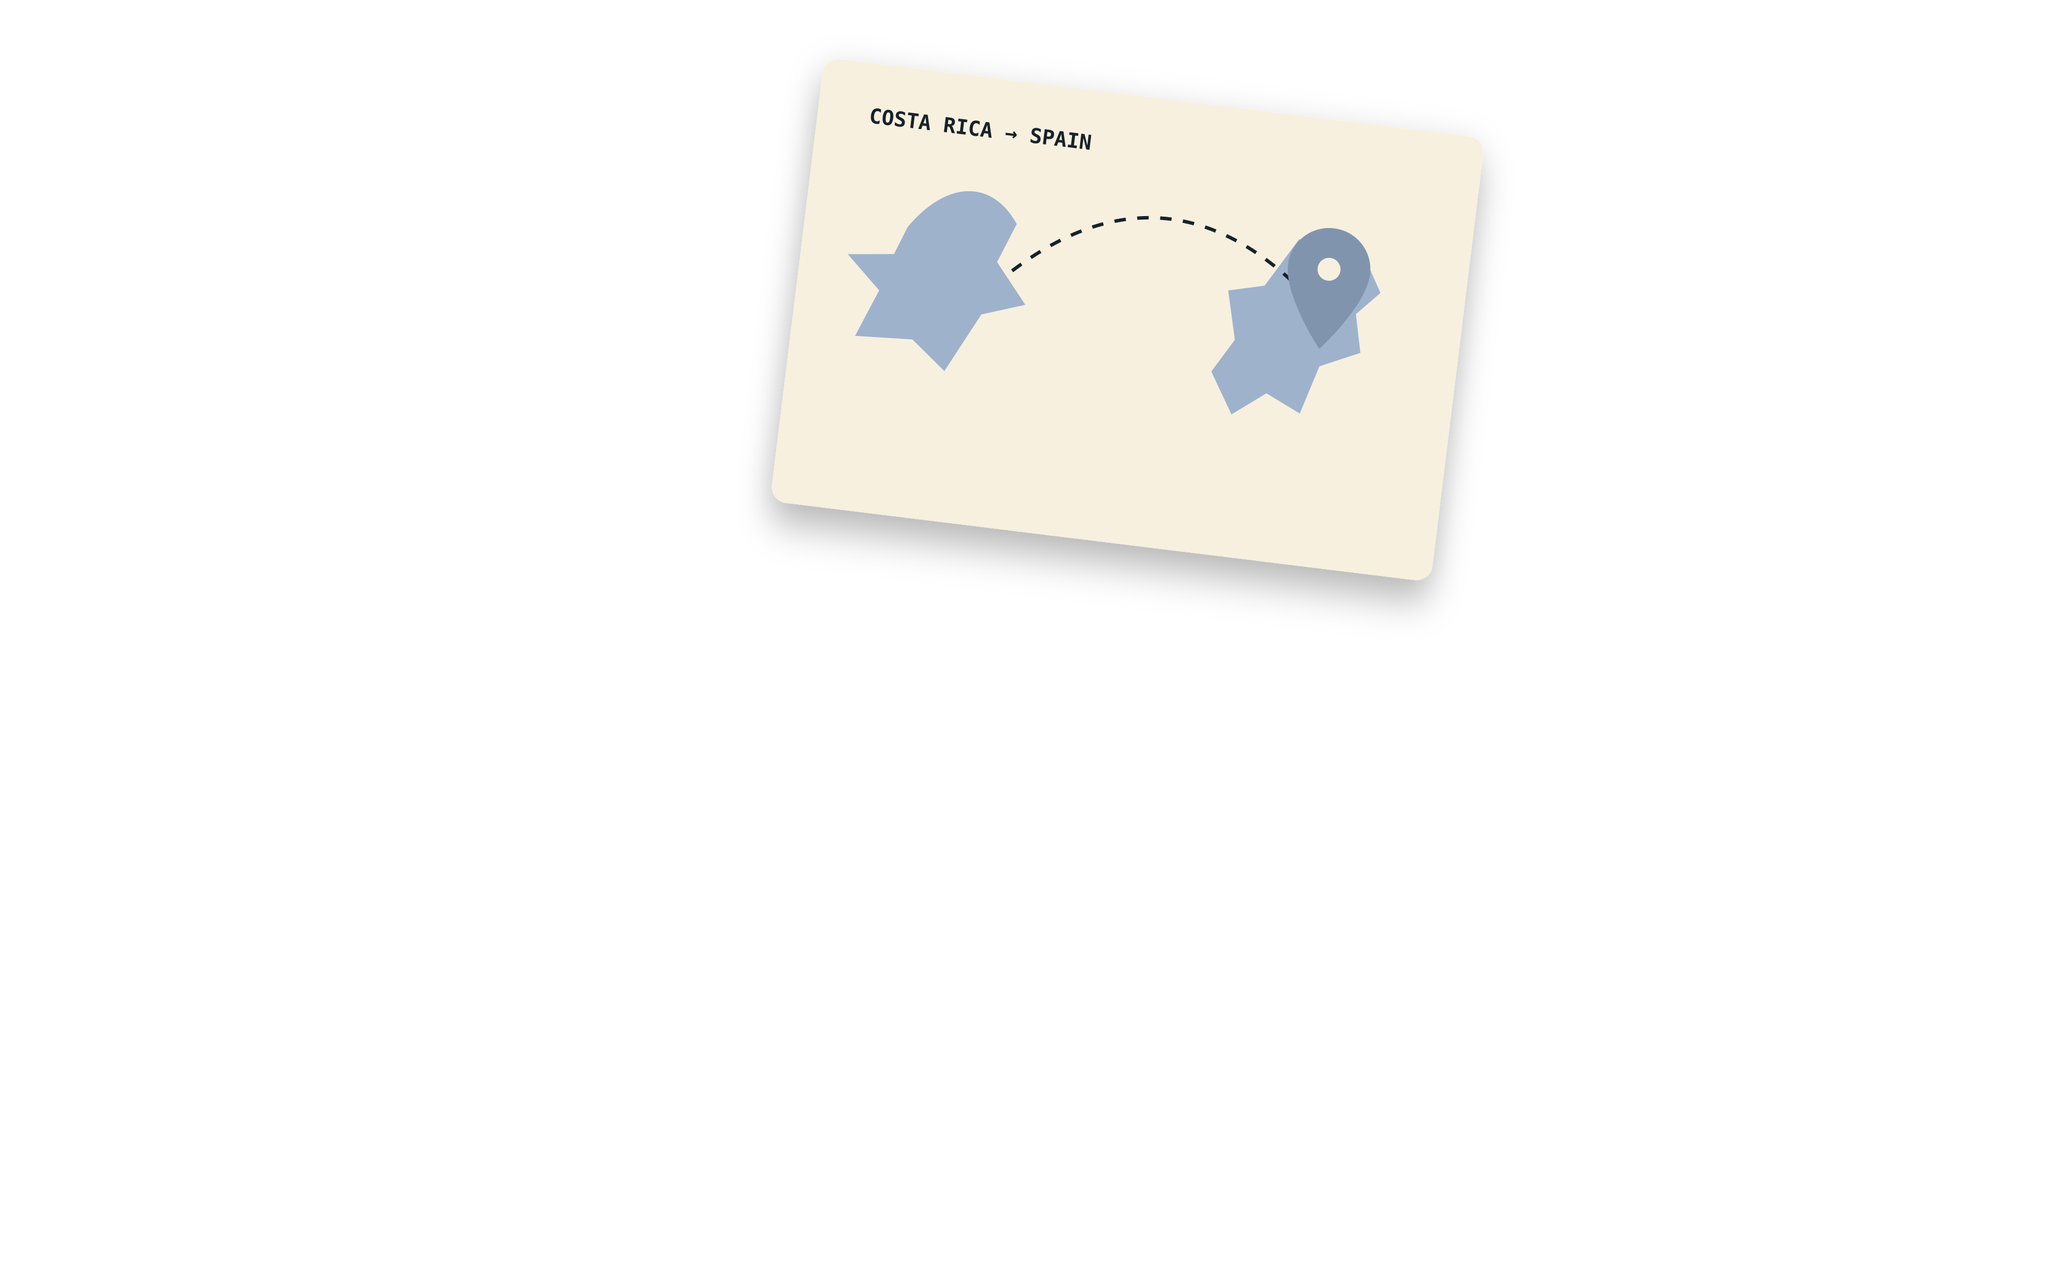
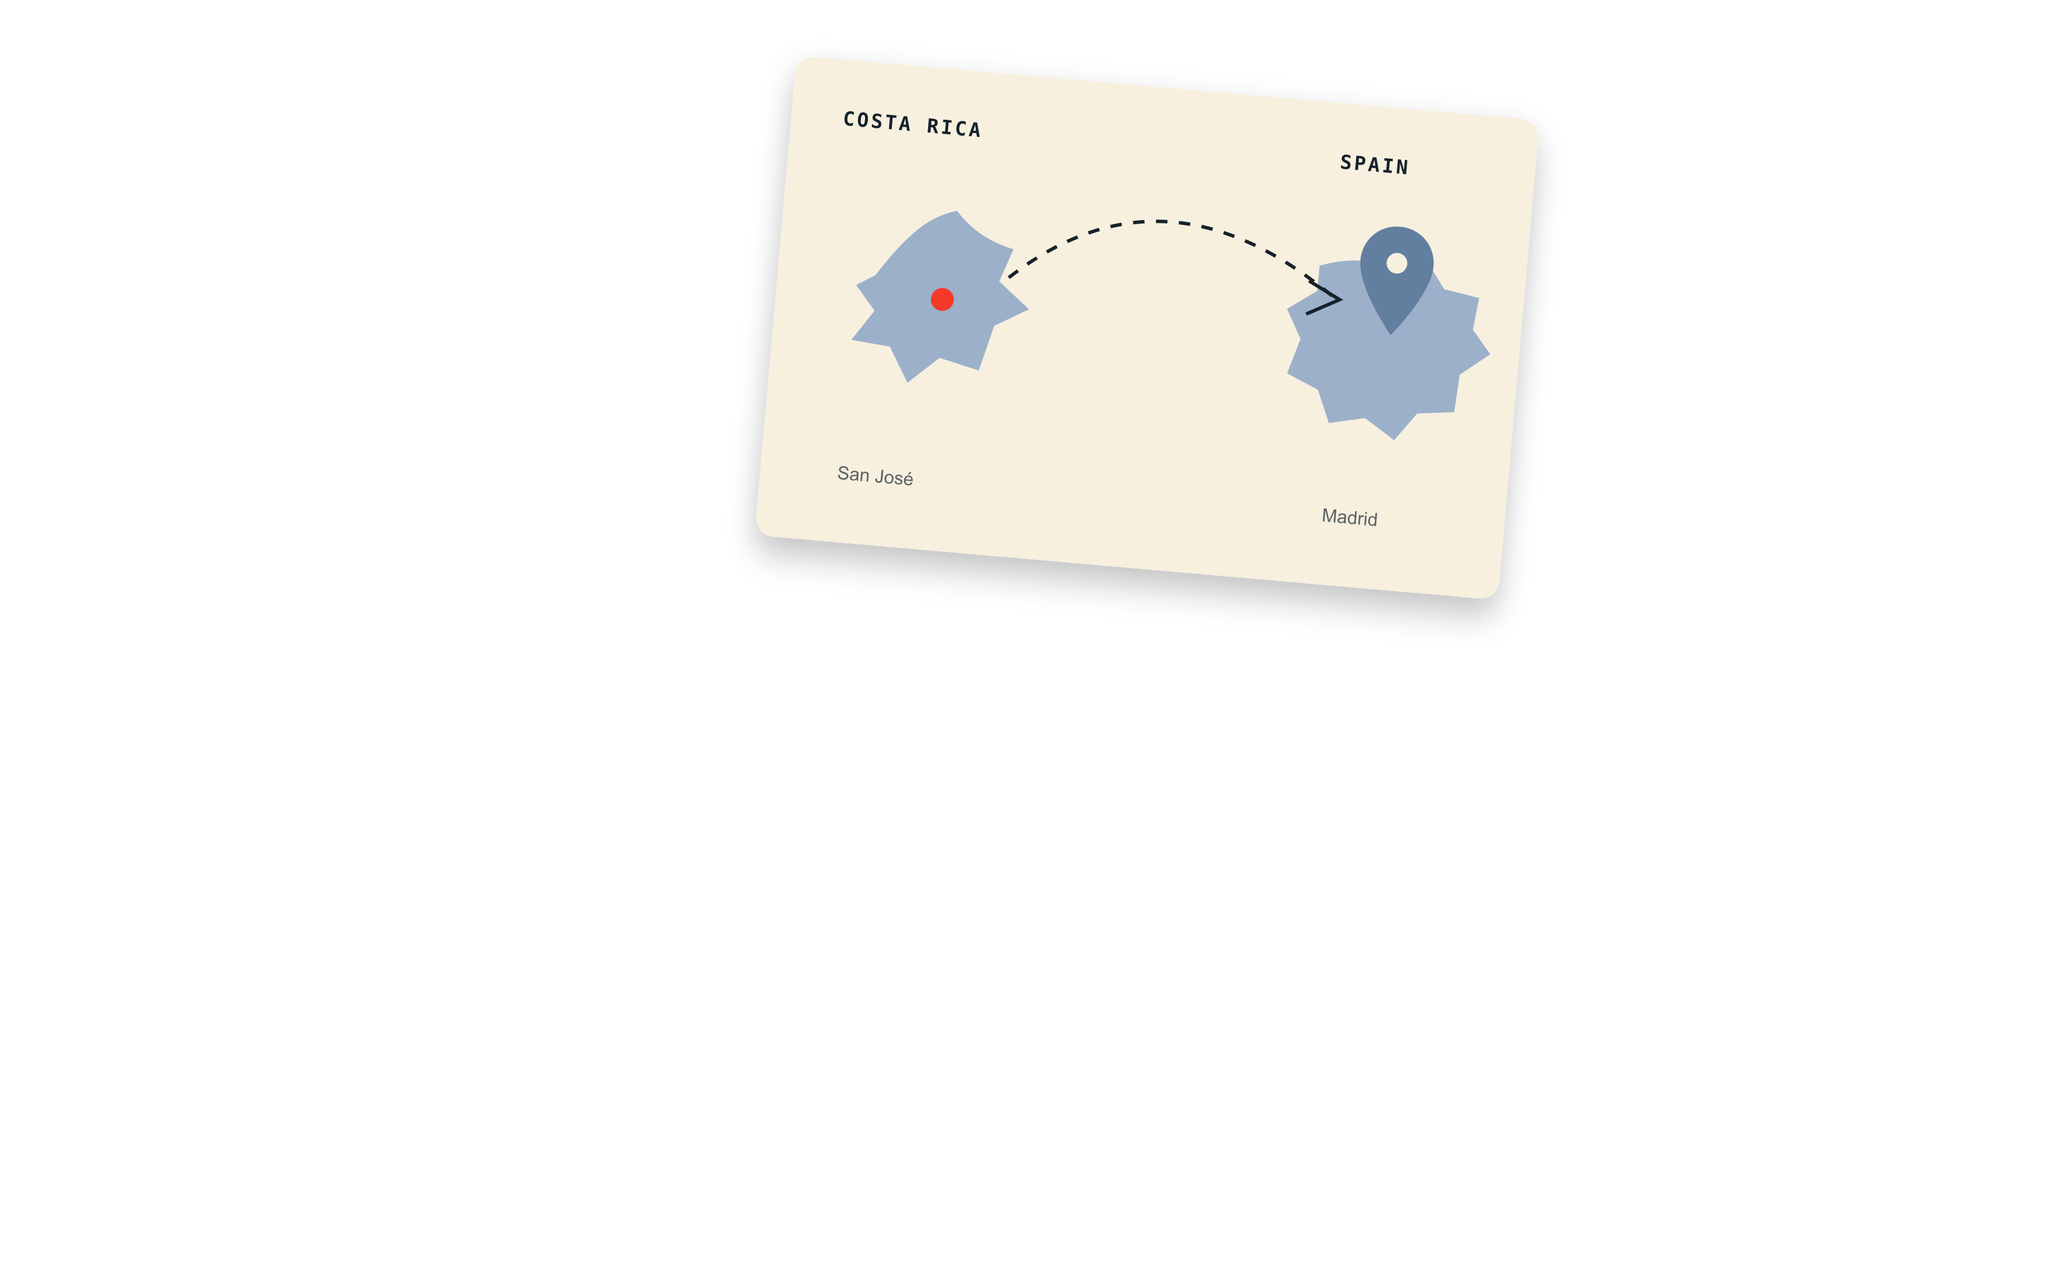
b

diff --git a/app/about/page.tsx b/app/about/page.tsx
@@ -1,6 +1,7 @@
 import type { Metadata } from "next";
 import SiteFooter from "../../components/SiteFooter";
 import SiteNav from "../../components/SiteNav";
+import Image from "next/image";
 
 export const metadata: Metadata = {
   title: "About — Josue Somarribas",
@@ -8,6 +9,8 @@ export const metadata: Metadata = {
 };
 
 const Arrow = () => <span aria-hidden="true">↗</span>;
+const aboutHeroLayers = ["01-cuaderno-field-kit", "02-mapa-costa-rica-spain", "03-ventana-experimento", "04-tarjeta-ab", "05-reloj-madrid", "06-nota-investigacion", "07-sello-curious"];
+const beliefImages:Record<string,string> = { ship:"02-idea-ship-learn", results:"03-resultados-planos", details:"04-detalle-ui-confianza" };
 
 export default function AboutPage() {
   const beliefs = [
@@ -36,31 +39,26 @@ export default function AboutPage() {
           <div className="actions"><a className="btn btn-red" href="#route">Download résumé ↓</a><a className="btn btn-outline" href="mailto:hello@josuesomarribas.com">Start a conversation <Arrow /></a></div>
           <p className="about-meta">8+ years across UX and web development　·　Based in Spain　·　Born in Costa Rica</p>
         </div>
-        <div className="about-collage" aria-label="Illustration of research, experimentation and a journey from Costa Rica to Spain">
-          <i className="about-sun" /><div className="about-waves"><i/><i/><i/></div>
-          <div className="field-kit"><b>FIELD KIT</b><span>Questions,<br/>observations &<br/>small bets.</span><i/></div>
-          <div className="map-card"><b>COSTA RICA　→　SPAIN</b><div>◆ · · · · · · ↗ ◆</div><small>curious<br/>by default</small></div>
-          <div className="code-note"><span>● ● ●</span><code>experiment {'{'}<br/>　hypothesis: &apos;Make it clearer&apos;,<br/>　variant: &apos;B&apos;,<br/>　track(&apos;cta_click&apos;);<br/>{'}'}</code></div>
-          <div className="ab-note"><b>A/B TEST</b><span>A</span><strong>B</strong></div>
-          <div className="research-note"><b>RESEARCH NOTE</b><p>Why do people hesitate<br/>right before they act?</p></div>
+        <div className="about-collage" role="img" aria-label="Research, experimentation and a journey from Costa Rica to Spain">
+          <Image className="about-decor about-asset-sun" src="/assets/global/sol-rojo-texturizado.svg" alt="" aria-hidden="true" width={1024} height={1024}/>
+          <Image className="about-decor about-asset-waves" src="/assets/global/ondas-marfil-3-lineas.svg" alt="" aria-hidden="true" width={1400} height={360}/>
+          {aboutHeroLayers.map((file,index)=><Image key={file} className={`about-hero-layer about-layer-${index+1}`} src={`/assets/about-hero/${file}.svg`} alt="" aria-hidden="true" width={1800} height={1100} priority={index<3}/>) }
         </div>
       </div>
     </section>
 
     <section className="about-overlap shell">
       <div><h2>I work in the overlap.</h2><p>The most interesting product problems rarely belong to one discipline. I like following them across boundaries—from the first awkward question to the production details that decide whether an idea survives.</p></div>
-      <div className="venn" aria-label="People, interfaces and systems overlap to create useful things that ship">
-        <i className="venn-interface">Interfaces</i><i className="venn-people">People</i><i className="venn-systems">Systems</i><b>Useful<br/>things that<br/>actually ship.</b>
-      </div>
+      <Image className="about-venn-asset" src="/assets/about-secundarios/01-diagrama-venn.svg" alt="People, interfaces and systems overlap to create useful things that ship" width={1200} height={820}/>
     </section>
 
-    <section className="beliefs shell"><h2>A few things I believe</h2><div className="belief-grid">{beliefs.map(([n,t,d,c])=><article className={c === "ship" ? "featured" : ""} key={n}><b>{n}</b><h3>{t}</h3><p>{d}</p><div className={`belief-art ${c}`} aria-hidden="true" /></article>)}</div></section>
+    <section className="beliefs shell"><h2>A few things I believe</h2><div className="belief-grid">{beliefs.map(([n,t,d,c])=><article className={c === "ship" ? "featured" : ""} key={n}><b>{n}</b><h3>{t}</h3><p>{d}</p>{beliefImages[c] ? <Image className="belief-asset" src={`/assets/about-secundarios/${beliefImages[c]}.svg`} alt="" aria-hidden="true" width={1100} height={700}/> : <Image className="belief-arrow" src="/assets/global/flecha-manuscrita-roja.svg" alt="" aria-hidden="true" width={800} height={500}/>}</article>)}</div></section>
 
-    <section className="route shell" id="route"><div className="route-head"><h2>The route so far</h2><a className="btn btn-dark" href="mailto:hello@josuesomarribas.com?subject=Résumé">View résumé <Arrow /></a></div><div className="route-line">{route.map(([icon,title,text])=><article key={title}><i>{icon}</i><span/><h3>{title}</h3><p>{text}</p></article>)}</div><p className="industries">Enterprise software　·　Education　·　E-commerce　·　Finance　·　Health　·　Travel</p></section>
+    <section className="route shell" id="route"><div className="route-head"><h2>The route so far</h2><a className="btn btn-dark" href="mailto:hello@josuesomarribas.com?subject=Résumé">View résumé <Arrow /></a></div><Image className="route-icons-asset" src="/assets/about-secundarios/05-iconos-ruta-profesional.svg" alt="" aria-hidden="true" width={1800} height={360}/><div className="route-line">{route.map(([,title,text])=><article key={title}><span/><h3>{title}</h3><p>{text}</p></article>)}</div><p className="industries">Enterprise software　·　Education　·　E-commerce　·　Finance　·　Health　·　Travel</p></section>
 
-    <section className="team"><div className="shell"><h2>What I bring to a team</h2><div className="team-grid"><article><i>⌕</i><div><h3>See the problem</h3><p>Research, synthesis, journey friction, hypothesis framing.</p></div></article><article><i>✎</i><div><h3>Shape the experience</h3><p>Flows, interaction design, prototypes, design systems.</p></div></article><article><i>‹/›</i><div><h3>Make it real</h3><p>Front-end, responsive behavior, accessibility, analytics and experiment QA.</p></div></article></div><p className="team-flow">OBSERVE　 ⟶　 FRAME　 ⟶　 PROTOTYPE　 ⟶　 INSTRUMENT　 ⟶　 SHIP　 ⟶　 LEARN</p></div></section>
+    <section className="team"><div className="shell"><h2>What I bring to a team</h2><Image className="team-icons-asset" src="/assets/about-secundarios/06-iconos-aporte-equipo.svg" alt="" aria-hidden="true" width={1350} height={460}/><div className="team-grid"><article><div><h3>See the problem</h3><p>Research, synthesis, journey friction, hypothesis framing.</p></div></article><article><div><h3>Shape the experience</h3><p>Flows, interaction design, prototypes, design systems.</p></div></article><article><div><h3>Make it real</h3><p>Front-end, responsive behavior, accessibility, analytics and experiment QA.</p></div></article></div><p className="team-flow">OBSERVE　 ⟶　 FRAME　 ⟶　 PROTOTYPE　 ⟶　 INSTRUMENT　 ⟶　 SHIP　 ⟶　 LEARN</p></div></section>
 
-    <section className="hospitality"><div className="shell hospitality-grid"><div><h2>UX does not stop at the screen.</h2><p>Alongside digital products, I host travellers from around the world in Costa Rica. More than 70 guest reviews have taught me the same lesson as product work: comfort lives in anticipation, clear communication and the small details people should never have to ask for.</p><a href="https://www.airbnb.com/" target="_blank" rel="noreferrer">Read the guest reviews <Arrow /></a></div><div className="welcome-card">Welcome!<br/><span>Que disfrutes tu estancia.</span> ♡</div><div className="speech">Thanks for the tips,<br/>it made our day.<br/><br/><b>Everything was<br/>thought through.</b></div></div></section>
+    <section className="hospitality"><div className="shell hospitality-grid"><div><h2>UX does not stop at the screen.</h2><p>Alongside digital products, I host travellers from around the world in Costa Rica. More than 70 guest reviews have taught me the same lesson as product work: comfort lives in anticipation, clear communication and the small details people should never have to ask for.</p><a href="https://www.airbnb.com/" target="_blank" rel="noreferrer">Read the guest reviews <Arrow /></a></div><Image className="hospitality-asset" src="/assets/about-secundarios/07-kit-hospitalidad.svg" alt="Hospitality kit with keys, map and welcome card" width={1800} height={900}/></div></section>
 
     <section className="recommendations shell"><h2>People I&apos;ve worked with say it better.</h2><div><blockquote>“Josue bridges design decisions and production constraints exceptionally well.”<cite>Product collaborator</cite></blockquote><blockquote>“He asks great questions, notices the details and makes collaboration feel easy.”<cite>Engineering collaborator</cite></blockquote><a href="#">Read 14 recommendations<br/>on LinkedIn <Arrow /></a></div></section>
 

diff --git a/app/globals.css b/app/globals.css
@@ -69,3 +69,9 @@ body{background-color:var(--paper);background-image:url('/assets/global/textura-
 .notebook-art{isolation:isolate}.writing-art-layer{position:absolute;z-index:2;top:-3%;left:-11%;width:122%;height:auto;pointer-events:none}.writing-decor{position:absolute;pointer-events:none}.writing-sun-asset{z-index:0;width:190px;height:190px;right:45px;top:0;animation:asset-pulse 6s ease-in-out infinite}.writing-waves-asset{z-index:1;width:260px;height:auto;right:-50px;top:82px;animation:asset-drift 7s ease-in-out infinite}.writing-art-4{animation:asset-float 6s ease-in-out infinite}.writing-art-5{animation:asset-float 4.8s -.7s ease-in-out infinite reverse}
 @media(max-width:600px){.writing-art-layer{left:-20%;width:140%}.writing-sun-asset{right:20px}}
 @media(prefers-reduced-motion:reduce){.writing-art-layer,.writing-decor{animation:none!important}}
+
+/* Final About artwork */
+.about-collage{isolation:isolate}.about-hero-layer{position:absolute;z-index:2;top:-5%;left:-11%;width:122%;height:auto;pointer-events:none}.about-decor{position:absolute;pointer-events:none}.about-asset-sun{z-index:0;width:180px;height:180px;right:45px;top:10px;animation:asset-pulse 6s ease-in-out infinite}.about-asset-waves{z-index:1;width:230px;height:auto;right:-60px;top:92px;animation:asset-drift 7s ease-in-out infinite}.about-layer-3,.about-layer-5{animation:asset-float 6.5s ease-in-out infinite}.about-layer-4,.about-layer-6{animation:asset-float 5.4s -1.3s ease-in-out infinite reverse}.about-layer-7{animation:asset-pulse 7s ease-in-out infinite}.about-venn-asset{display:block;width:min(620px,100%);height:auto;margin-left:auto}.belief-asset,.belief-arrow{position:absolute;left:14px;right:14px;bottom:8px;width:calc(100% - 28px);height:125px;object-fit:contain}.belief-arrow{height:105px;object-fit:cover;object-position:70% 54%}.route-icons-asset{display:block;width:100%;height:auto;margin:2px 0 -72px}.team .shell{position:relative}.team-icons-asset{display:block;width:100%;height:auto;margin:-25px 0 -90px;opacity:.95}.team-grid article{padding-top:48px}.hospitality-grid{grid-template-columns:.8fr 1.2fr}.hospitality-asset{display:block;width:100%;height:auto;max-height:230px;object-fit:contain}.fouc-asset-story{display:grid;grid-template-columns:1.4fr .8fr;gap:14px;margin:24px 0}.fouc-asset-story img{display:block;width:100%;height:180px;object-fit:contain;border:1px solid #d2cdc2;border-radius:7px;background:#f8f2e5}.fouc-asset-story img:first-child,.fouc-asset-story img:nth-child(2),.fouc-asset-story img:nth-child(4),.fouc-asset-story img:nth-child(5){grid-column:1/-1;height:auto}.fouc-takeaway{position:relative;background-image:url('/assets/article-fouc/08-subrayado-takeaway.svg'),linear-gradient(110deg,#fbecd0,#fff8e9);background-repeat:no-repeat;background-position:12px 60%,center;background-size:70% auto,auto}.writing-quote{position:relative;overflow:hidden}.writing-quote:after{content:"";position:absolute;right:2%;bottom:-12%;width:280px;height:110px;background:url('/assets/writing-editorial/07-firma-garabato-blanca.svg') center/contain no-repeat;opacity:.75;pointer-events:none}
+@media(max-width:900px){.about-venn-asset{margin:0 auto}.route-icons-asset{margin-bottom:-40px}.team-icons-asset{margin-bottom:-55px}.hospitality-grid{grid-template-columns:1fr 1fr}.fouc-asset-story{grid-template-columns:1fr 1fr}}
+@media(max-width:600px){.about-hero-layer{left:-24%;width:148%;top:0}.about-asset-sun{right:5px}.about-venn-asset{width:100%}.route-icons-asset{margin-bottom:-15px}.team-icons-asset{margin:0 0 -20px}.team-grid article{padding-top:0}.hospitality-grid{grid-template-columns:1fr}.fouc-asset-story{grid-template-columns:1fr}.fouc-asset-story img{grid-column:1!important;height:auto}.writing-quote:after{opacity:.35}}
+@media(prefers-reduced-motion:reduce){.about-hero-layer,.about-decor{animation:none!important}}

diff --git a/app/writing/ArticlePage.tsx b/app/writing/ArticlePage.tsx
@@ -3,6 +3,7 @@ import type { Article } from "../../lib/content";
 import SiteFooter from "../../components/SiteFooter";
 import SiteNav from "../../components/SiteNav";
 import ArticleTools from "./ArticleTools";
+import { editorialImage } from "../../lib/editorial-assets";
 
 function plainText(value:string) { return value.replace(/<[^>]+>/g, "").replace(/&[^;]+;/g, " ").trim(); }
 function headingId(value:string) { return plainText(value).normalize("NFKD").replace(/[\u0300-\u036f]/g, "").toLowerCase().replace(/[^a-z0-9]+/g, "-").replace(/^-|-$/g, ""); }
@@ -22,6 +23,8 @@ export default function ArticlePage({ article, locale }:{ article:Article; local
   const indexHref = locale === "es" ? "/es/writing" : "/writing";
   const { html, headings } = prepareBody(article.body);
   const minutes = Math.max(1, Math.ceil(plainText(article.body).split(/\s+/).length / 220));
+  const isFouc = /fouc/i.test(article.slug);
+  const heroImage = isFouc ? "/assets/article-fouc/01-hero-diagrama.svg" : editorialImage(article.slug, article.image);
   const labels = locale === "es"
     ? { writing:"Artículos", back:"Volver a artículos", note:"Este artículo todavía está disponible únicamente en inglés.", talk:"Hablemos", compare:"¿Comparamos notas?", conversation:"Iniciar conversación", contents:"EN ESTE ARTÍCULO", share:"COMPARTIR" }
     : { writing:"Writing", back:"Back to Writing", note:"", talk:"Let’s talk", compare:"Want to compare notes?", conversation:"Start a conversation", contents:"IN THIS NOTE", share:"SHARE" };
@@ -44,10 +47,16 @@ export default function ArticlePage({ article, locale }:{ article:Article; local
           <p className="article-description">{article.description}</p>
           <div className="article-meta"><span>By Josue Somarribas</span><span>•</span><span>{minutes} min read</span><span>•</span><time dateTime={article.date}>Updated {new Intl.DateTimeFormat("en", { month:"short", year:"numeric" }).format(new Date(article.date))}</time></div>
           <ArticleTools title={article.title}/>
-          <Image src={article.image} alt={article.imageAlt} width={1672} height={941} priority unoptimized/>
+          <Image src={heroImage} alt={article.imageAlt} width={1800} height={900} priority unoptimized/>
         </header>
+        {isFouc && <div className="fouc-asset-story" aria-label="Visual explanation of flicker and experiment validity">
+          {[
+            ["02-recorrido-ocular",1600,430], ["03-timeline-300ms",1800,500], ["04-anotaciones-validity",1200,900],
+            ["05-banner-senal",1400,360], ["06-checklist-papel",1800,600], ["07-check-manuscrito",700,600]
+          ].map(([file,width,height])=><Image key={file} src={`/assets/article-fouc/${file}.svg`} alt="" aria-hidden="true" width={Number(width)} height={Number(height)}/>) }
+        </div>}
         <div className="article-content" dangerouslySetInnerHTML={{ __html:html }}/>
-        <section className="article-takeaway"><b>The takeaway</b><strong>{article.description}</strong><p>Clear thinking, careful implementation and honest measurement produce results that are easier to trust.</p></section>
+        <section className={`article-takeaway ${isFouc ? "fouc-takeaway" : ""}`}><b>The takeaway</b><strong>{article.description}</strong><p>Clear thinking, careful implementation and honest measurement produce results that are easier to trust.</p></section>
         <section className="article-author"><b className="logo">JS.</b><div><strong>Written by Josue Somarribas</strong><p>UX Engineer and CRO Developer writing about experimentation, front-end craft and the uncomfortable details between them.</p></div><a className="btn btn-red" href="mailto:hello@josuesomarribas.com">More about Josue →</a></section>
       </article>
     </div>

diff --git a/app/writing/WritingIndex.tsx b/app/writing/WritingIndex.tsx
@@ -2,6 +2,7 @@
 
 import { useMemo, useState } from "react";
 import type { ArticleMeta } from "../../lib/content";
+import { editorialImage } from "../../lib/editorial-assets";
 
 type Locale = "en" | "es";
 const copy = {
@@ -41,7 +42,7 @@ export default function WritingIndex({ locale, articles }:{ locale:Locale; artic
             <p>{article.description}</p>
           </div>
           <div className="note-meta"><time dateTime={article.date}>{new Intl.DateTimeFormat(locale, { dateStyle:"medium" }).format(new Date(article.date))}</time><span>{readingMinutes(article)} {t.min}</span></div>
-          <span className="article-cover" aria-hidden="true" style={{ backgroundImage:`url(${article.image})` }}/>
+          <span className="article-cover" aria-hidden="true" style={{ backgroundImage:`url(${editorialImage(article.slug, article.image)})` }}/>
         </a>;
       })}</div>
       {!shown.length && <p className="empty-notes">{t.empty}</p>}

diff --git a/lib/editorial-assets.ts b/lib/editorial-assets.ts
@@ -1,0 +1,12 @@
+const editorialAssets:[RegExp,string][] = [
+  [/fouc/i, "/assets/writing-editorial/01-fouc-original-flicker-variant.svg"],
+  [/mutationobserver|polling/i, "/assets/writing-editorial/02-observer-vs-polling.svg"],
+  [/flat-data|statistical-significance/i, "/assets/writing-editorial/03-flat-wins.svg"],
+  [/squircle|superellipse/i, "/assets/writing-editorial/04-squircle.svg"],
+  [/json-ld|schema/i, "/assets/writing-editorial/05-json-ld.svg"],
+  [/ssml|audio|elevenlabs/i, "/assets/writing-editorial/06-ssml-audio.svg"],
+];
+
+export function editorialImage(slug:string, fallback:string) {
+  return editorialAssets.find(([pattern]) => pattern.test(slug))?.[1] || fallback;
+}
